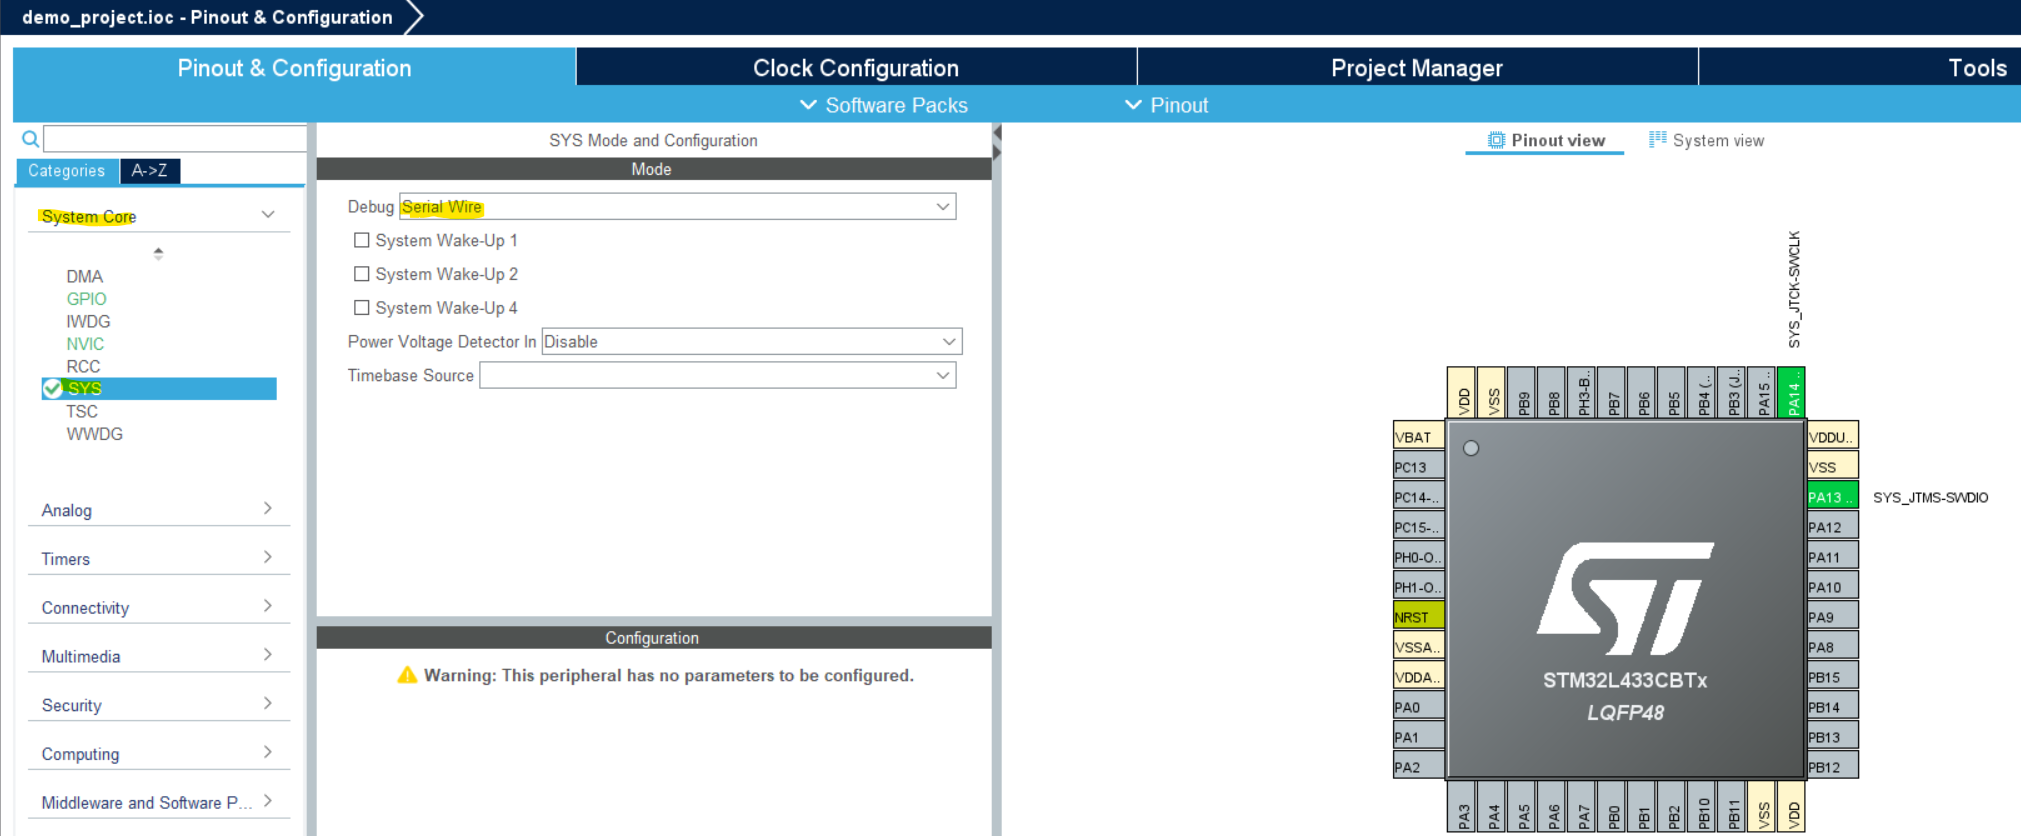
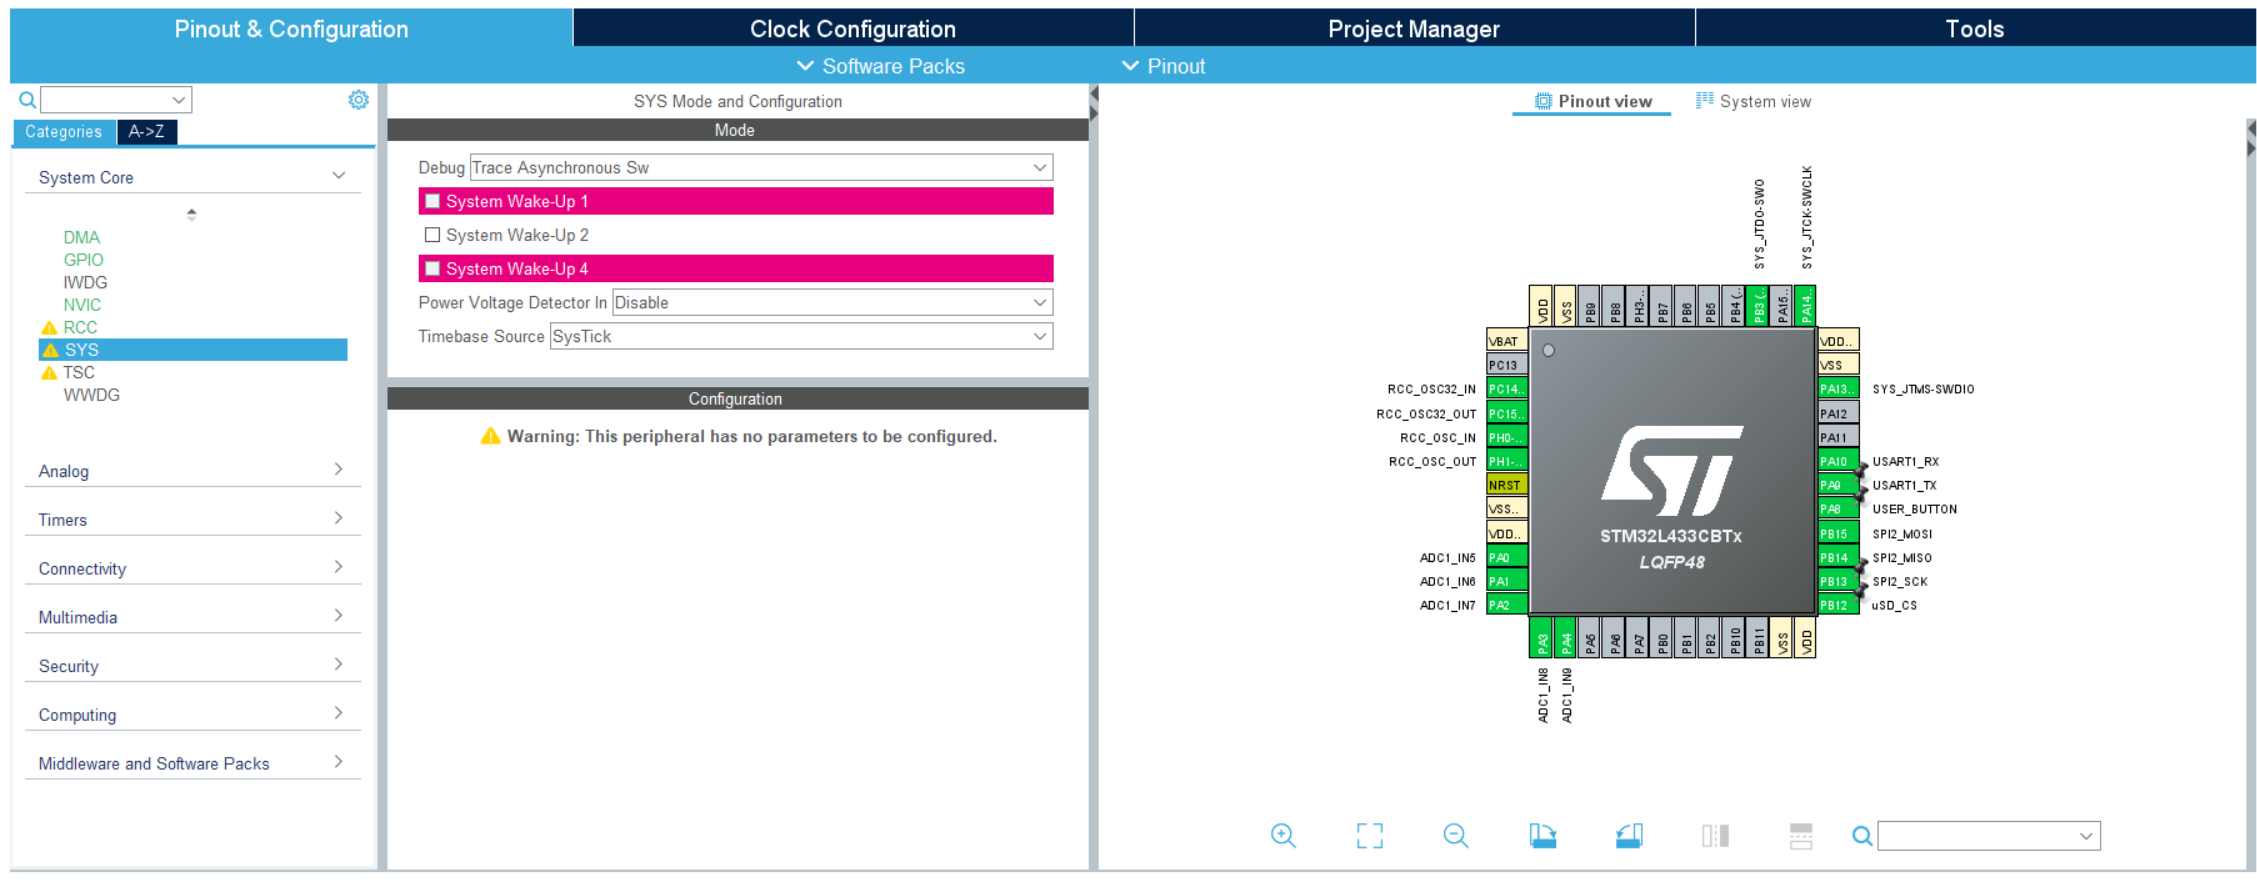
accel changes

diff --git a/6. Payload Breakdowns/6.1 Acclerometer/ADXL326 Lesson Guide.md b/6. Payload Breakdowns/6.1 Acclerometer/ADXL326 Lesson Guide.md
@@ -28,7 +28,7 @@
 ## Procedure
 
 ### 1. Understanding the component
-1. Review the "functional block diagram" for the ADXL326. How many inputs does the chip have? How many outputs does the circuit have?
+1. Review the "functional block diagram" for the ADXL326. What are the inputs for the chip have? What are the outputs for chip?
         <details>
         <summary>**The functional block diagram**</summary>
         ![Alt text](Images/image.png)
@@ -40,7 +40,7 @@
         </details>
 <br>
 
-2. Review the "pin configuration and function descriptions" diagram and table. What are the important requirements for the input pins? Notice how the X, Y, and Z axes are denoted on the diagram (would be wise to keep a note of this).
+2. Review the "pin configuration and function descriptions" diagram and table. What supply voltage can this device handle? Are we within its limits?<br><br>(Also Notice how the X, Y, and Z axes are denoted on the diagram, it would be wise to keep a note of this).
         <details>
         <summary>**The pin configuration and function descriptions diagram**</summary>
         ![Alt text](Images/image-1.png)
@@ -86,11 +86,12 @@
         <details>
         <summary>**Answers**</summary>
         Your proposed solution should look something like this:
-        ![Alt text](Images/Circuit Diagrams.png)
+                ![Alt text](<Images/Circuit Diagrams.png>)
+                <br>
                 <details>
                 <summary>**Important Tips**</summary>
                 <br>
-                - A capacitor is used between ground and supply voltage to smooth our any voltage drops from the microcontroller. As the device needs to power itself and supply power to other logical outputs, the power it outputs can fluctuate. Adding a capacitor is a common method used to storing electrical charge and discharge when less power is being supplied. This allows the circuit to operate at a steady and constant voltage.<br><br>- It also means that noisy signals can be smoothed out. This is because capacitors suck up voltage, meaning they can take out large peaks in signals. However, if the signal starts to lessen in voltage they will start to supply voltage. This hence produces a signal that is smoother, because the peaks and troughs are brought closer together.
+                - A capacitor is used between ground and supply voltage to smooth our any voltage drops from the microcontroller. As the device needs to power itself and supply power to other logical outputs, the power it outputs can fluctuate. Adding a capacitor is a common method used to store electrical charge and discharge it when less power is being supplied. This allows the circuit to operate at a steady and constant voltage.<br><br>- It also means that noisy signals can be smoothed out. This is because capacitors suck up voltage, meaning they can take out large peaks in signals. However, if the signal starts to lessen in voltage they will start to supply voltage. This hence produces a signal that is smoother, because the peaks and troughs are brought closer together.
                 </details>
         </details>
 <br>
@@ -103,7 +104,7 @@
 <br>
 
 ### 4. Setting up the STM32 environment for the STM32L433CBT7
-1. You will now need to setup the an STM32cubeIDE project to interface with the ADXL326 using the payload development board. This board utilises the STM32L433CBT7 microcontroller. To verify this, you can read the writing on the top of the chip in the centre of the board.
+1. You will now need to setup an STM32cubeIDE project to interface with the ADXL326 using the payload development board. This board utilises the STM32L433CBT7 microcontroller. To verify this, you can read the writing on the top of the chip in the centre of the board.
 <br>
 
 2. First you'll need to open up STM32cubeIDE and start a new project:<br>![Alt text](Images/image-6.png)
@@ -115,7 +116,7 @@
 4. Next you can name the project what you would like, and select the C++ programming language option. Then you can select finish.<br>![Alt text](Images/image-8.png)
 <br>
 
-5. You will then be presented with the pinout for the microcontroller you'll be running! This gives you direct control over the capabilites the chip will have initialised.<br>The most important thing to set up is the ability to talk to the microcontroller, we need to tell the code how to communicate with the chip. For this we will select the 'system core' tab, then the 'SYS' tab where we will select the 'Serial Wire' option for debugging. This tells the chip what method of communication we will be using for debugging the chip.<br>![Alt text](Images/image-9.png)
+5. You will then be presented with the pinout for the microcontroller you'll be running. This gives you direct control over the capabilites the chip will have initialised.<br>The most important thing to set up is the ability to talk to the microcontroller, we need to tell the code how to communicate with the chip. For this we will select the 'system core' tab, then the 'SYS' tab where we will select the 'Trace Asynchronous Sw' option for debugging. This tells the chip what method of communication we will be using for debugging the chip.<br>![Alt text](Images/image-9.png)
 <br>
 
 6. Next, we need to let the chip know how it will be flashed. For this we will select the 'Connectivity' tab, then the 'USART1' tab where you'll select the mode as 'Asynchronous'. This is letting the microcontroller know we will be using the USART1 pins to communicate from the laptop to the microcontroller.<br>![Alt text](Images/image-10.png)
